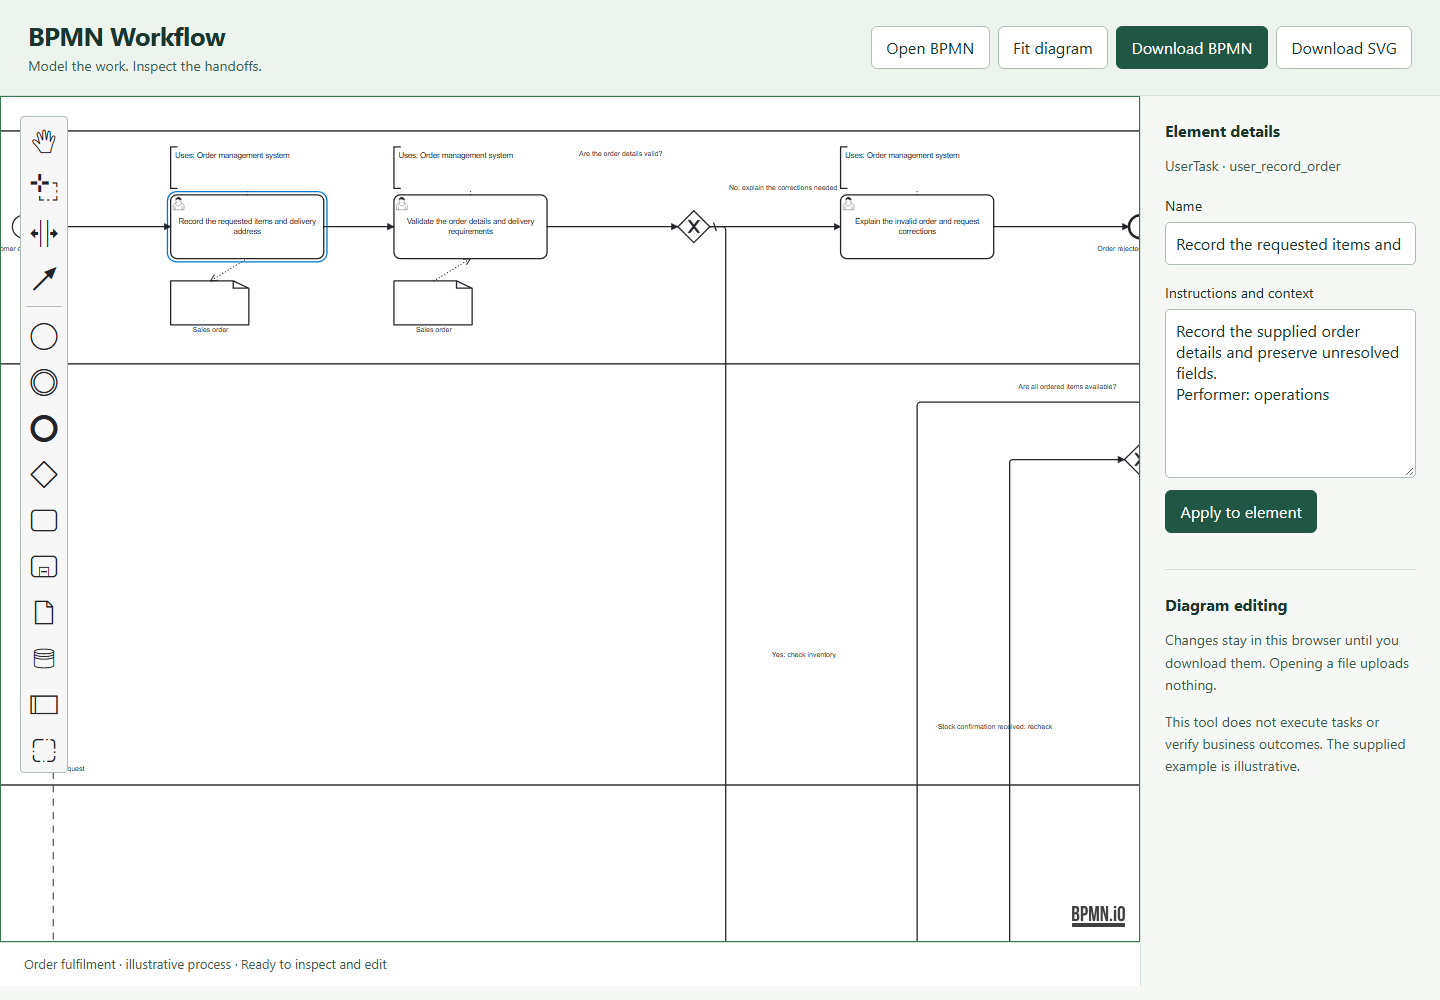
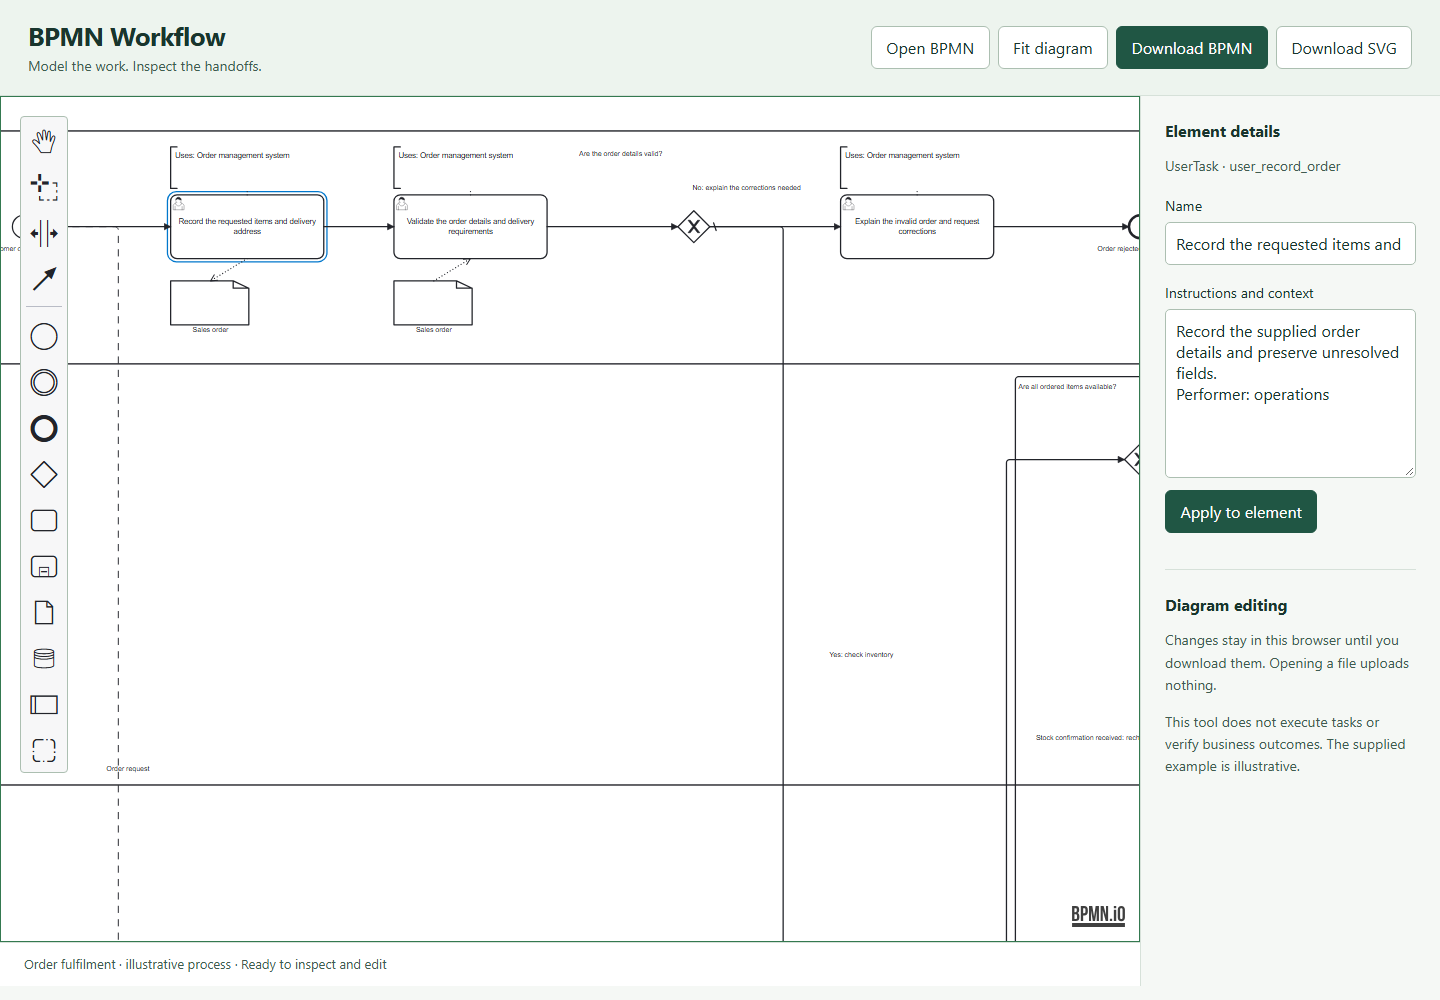
fix: route connectors around tasks, notes and work products
Generated diagrams drew connectors through unrelated shapes: the recheck
loop ran through the "Uses:" notes above both tasks, a flow from a
re-centred gateway ran through the task stacked above it, and the dispatch
message crossed the task's second work product.

Vertical legs now run in the gap past each column's widest task, note or
work product. Rework loops and flows that skip columns leave and enter
tasks at the upper/lower quarter and run along the top of the lane, above
every system note, in their own channel.

scripts/layout_check.py reports connectors that cross unrelated shapes and
labels outside the diagram; the test suite runs it on the example and
checks the bundled example matches the generator. Example and editor
screenshots regenerated.

diff --git a/skills/bpmn-workflow/scripts/diagram.py b/skills/bpmn-workflow/scripts/diagram.py
@@ -50,18 +50,39 @@ def layout(model):
     return positions, 470 + (max(ranks.values())+1)*spacing, y, bounds
 
 
-def waypoints(source, target, index):
+def waypoints(source, target, index, gaps=None, lane_top=None):
+    """Route a sequence flow between shapes.
+
+    gaps gives the clear x just right of the source column and just left of the
+    source/target columns (past every task, system note and work product), so
+    vertical legs never run through another column. lane_top is the top of the
+    upper endpoint's lane, above every system note, for rework loops.
+    """
     x, y, w, h = source
     tx, ty, tw, th = target
     if tx > x:
-        if abs(ty-y) < 45 and tx-(x+w) > 250:
+        skips_columns = abs(ty-y) < 45 and tx-(x+w) > 250
+        if skips_columns and gaps is None:
             corridor = min(y,ty)-35 if index%2 == 0 else max(y+h,ty+th)+35
             return [(x+w/2, y if index%2 == 0 else y+h), (x+w/2, corridor),
                     (tx+tw/2, corridor), (tx+tw/2, ty if index%2 == 0 else ty+th)]
-        middle = x + w + 25
+        if skips_columns:
+            # Pass over the columns in between along the top of the lane.
+            top = lane_top + 8 + (index % 3) * 6
+            out, back = gaps["after_source"], gaps["before_target"]
+            return [(x+w, y+h/2), (out, y+h/2), (out, top), (back, top), (back, ty+th/2), (tx, ty+th/2)]
+        middle = gaps["after_source"] if gaps else x + w + 25
         return [(x+w, y+h/2), (middle, y+h/2), (middle, ty+th/2), (tx, ty+th/2)]
-    top = min(y, ty) - 22 - (index % 3) * 9
-    return [(x+w/2, y), (x+w/2, top), (tx+tw/2, top), (tx+tw/2, ty)]
+    if gaps is None:
+        top = min(y, ty) - 22 - (index % 3) * 9
+        return [(x+w/2, y), (x+w/2, top), (tx+tw/2, top), (tx+tw/2, ty)]
+    # Rework loop: leave the source sideways, run along the top of the lane above
+    # every system note, and come back down into the target from its right. It
+    # uses the upper/lower quarter of each side and its own channel, so it never
+    # shares a line with the forward flows entering and leaving at mid-height.
+    top = lane_top + 8 + (index % 3) * 6
+    left, right = gaps["before_source"] - 8, gaps["after_target"] + 14
+    return [(x, y+h/4), (left, y+h/4), (left, top), (right, top), (right, ty+th*3/4), (tx+tw, ty+th*3/4)]
 
 
 def condition_label(edge):
@@ -101,14 +122,14 @@ def information_items(model, positions):
                    'name':product['name'],'bounds':(x+index*145,y+h+35,125,max(70,20+14*len(textwrap.wrap(product['name'],18))))}
 
 
-def message_points(message, positions, nodes):
+def message_points(message, positions, nodes, gap_after=None):
     # Connect external pools vertically near the receiving/sending task, rather
     # than running a message line through intervening activity labels.
     internal = message["source"] if message["source"] in nodes else message["target"]
     external = message["target"] if internal == message["source"] else message["source"]
     x,y,w,h = positions[internal]
     _,py,_,_ = positions[external]
-    corridor = x+w+28
+    corridor = gap_after(internal) + 8 if gap_after else x+w+28
     points = [(x+w,y+h/2), (corridor,y+h/2), (corridor,py)]
     return points if internal == message["source"] else list(reversed(points))
 
@@ -165,6 +186,24 @@ def bpmn_xml(manifest, model_name):
             'Accountable role: '+node['responsible_role'] if node.get('responsible_role') else ''
         ]))
     info = list(information_items(model, positions))
+    # Columns before events/gateways are re-centred: connectors run in the gaps
+    # past each column's widest task, system note or work product.
+    frames = {n["id"]: positions[n["id"]] for n in model["nodes"]}
+    reach = defaultdict(float)
+    for nid, (x, _, w, _) in frames.items():
+        reach[x] = max(reach[x], x + w)
+    for item in info:
+        bx, _, bw, _ = item["bounds"]
+        reach[frames[item["node"]][0]] = max(reach[frames[item["node"]][0]], bx + bw)
+    def column(ref):
+        return frames.get(ref) or positions[ref]
+    def gap_after(ref):
+        x, _, w, _ = column(ref)
+        return reach.get(x, x + w) + 20
+    def gap_before(ref):
+        return column(ref)[0] - 20
+    def lane_of(ref):
+        return nodes[ref]["lane"] if ref in nodes else nodes[subs[ref]["entry"]]["lane"]
     for item in info:
         if item['kind']=='system':
             annotation=element(process,'textAnnotation',id=item['id'])
@@ -246,7 +285,10 @@ def bpmn_xml(manifest, model_name):
         for px,py in points:element(edge,'waypoint',D,x=px,y=py)
     for index, (eid, (src, dst)) in enumerate(flow_refs.items()):
         edge = element(plane, "BPMNEdge", DI, id="di_"+xid(eid), bpmnElement=xid(eid))
-        points=waypoints(positions[src], positions[dst], index)
+        gaps = {"after_source": gap_after(src), "before_source": gap_before(src),
+                "after_target": gap_after(dst), "before_target": gap_before(dst)}
+        lane_top = min(lane_bounds[lane_of(src)][0], lane_bounds[lane_of(dst)][0])
+        points=waypoints(positions[src], positions[dst], index, gaps, lane_top)
         for x, y in points:
             element(edge, "waypoint", D, x=x, y=y)
         declared=next(e for e in model['edges']+model['conditional_edges'] if e['id']==eid)
@@ -260,7 +302,7 @@ def bpmn_xml(manifest, model_name):
         shape(xid(lane["id"]), positions[lane["id"]], isHorizontal="true")
     for index, message in enumerate(model["messages"]):
         edge = element(plane, "BPMNEdge", DI, id="di_"+xid(message["id"]), bpmnElement=xid(message["id"]))
-        for x, y in message_points(message, positions, nodes):
+        for x, y in message_points(message, positions, nodes, gap_after):
             element(edge, "waypoint", D, x=x, y=y)
     ET.indent(root)
     return ET.tostring(root, encoding="utf-8", xml_declaration=True)

diff --git a/skills/bpmn-workflow/scripts/layout_check.py b/skills/bpmn-workflow/scripts/layout_check.py
@@ -1,0 +1,85 @@
+"""Geometry check for generated BPMN diagrams: connectors must not cross unrelated
+shapes, and labels must stay inside the diagram and clear of activities.
+
+    python scripts/layout_check.py output/order/process.bpmn
+"""
+import sys
+import xml.etree.ElementTree as ET
+
+B = "{http://www.omg.org/spec/BPMN/20100524/MODEL}"
+DI = "{http://www.omg.org/spec/BPMN/20100524/DI}"
+DC = "{http://www.omg.org/spec/DD/20100524/DC}"
+D = "{http://www.omg.org/spec/DD/20100524/DI}"
+CONTAINERS = {"participant", "lane", "subProcess"}
+
+
+def rect(el):
+    b = el.find(DC + "Bounds")
+    return tuple(float(b.get(k)) for k in ("x", "y", "width", "height"))
+
+
+def crosses(p, q, r, inset=2):
+    """True if the axis-aligned or straight segment p-q passes through the inside of r."""
+    x, y, w, h = r
+    x0, y0, x1, y1 = x + inset, y + inset, x + w - inset, y + h - inset
+    if x0 >= x1 or y0 >= y1:
+        return False
+    # Liang-Barsky clipping against the inset rectangle.
+    dx, dy = q[0] - p[0], q[1] - p[1]
+    t0, t1 = 0.0, 1.0
+    for edge_p, edge_q in ((-dx, p[0] - x0), (dx, x1 - p[0]), (-dy, p[1] - y0), (dy, y1 - p[1])):
+        if edge_p == 0:
+            if edge_q < 0:
+                return False
+            continue
+        t = edge_q / edge_p
+        if edge_p < 0:
+            t0 = max(t0, t)
+        else:
+            t1 = min(t1, t)
+        if t0 > t1:
+            return False
+    return t1 - t0 > 1e-6
+
+
+def overlap(a, b):
+    return a[0] < b[0] + b[2] and b[0] < a[0] + a[2] and a[1] < b[1] + b[3] and b[1] < a[1] + a[3]
+
+
+def check(xml):
+    root = ET.fromstring(xml)
+    kinds, ends = {}, {}
+    for el in root.iter():
+        if el.get("id") and el.tag.startswith(B):
+            kinds[el.get("id")] = el.tag[len(B):]
+        if el.get("sourceRef") and el.get("targetRef"):
+            ends[el.get("id")] = {el.get("sourceRef"), el.get("targetRef")}
+    shapes = {s.get("bpmnElement"): rect(s) for s in root.iter(DI + "BPMNShape")}
+    solid = {k: r for k, r in shapes.items() if kinds.get(k) not in CONTAINERS}
+    left = min(r[0] for k, r in shapes.items() if kinds.get(k) == "participant")
+    problems = []
+    for edge in root.iter(DI + "BPMNEdge"):
+        ref = edge.get("bpmnElement")
+        pts = [(float(w.get("x")), float(w.get("y"))) for w in edge.findall(D + "waypoint")]
+        for k, r in solid.items():
+            if k in ends.get(ref, ()):
+                continue
+            if any(crosses(p, q, r) for p, q in zip(pts, pts[1:])):
+                problems.append(f"connector {ref} crosses {k}")
+    for owner in list(root.iter(DI + "BPMNShape")) + list(root.iter(DI + "BPMNEdge")):
+        label = owner.find(DI + "BPMNLabel")
+        if label is None:
+            continue
+        r, ref = rect(label), owner.get("bpmnElement")
+        if r[0] < left:
+            problems.append(f"label of {ref} starts {left - r[0]:.0f}px left of the diagram")
+        for k, s in solid.items():
+            if k != ref and k not in ends.get(ref, ()) and kinds.get(k) not in {"textAnnotation"} and overlap(r, s):
+                problems.append(f"label of {ref} overlaps {k}")
+    return problems
+
+
+if __name__ == "__main__":
+    found = check(open(sys.argv[1], encoding="utf-8").read())
+    print("\n".join(found) or "layout ok")
+    sys.exit(1 if found else 0)
